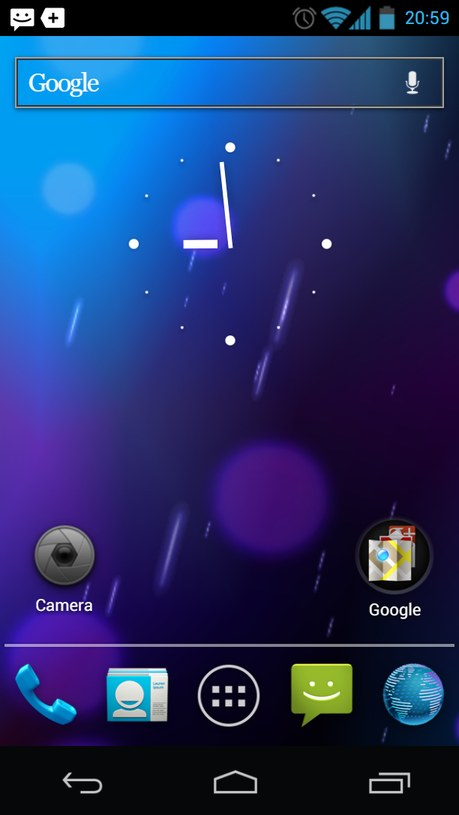
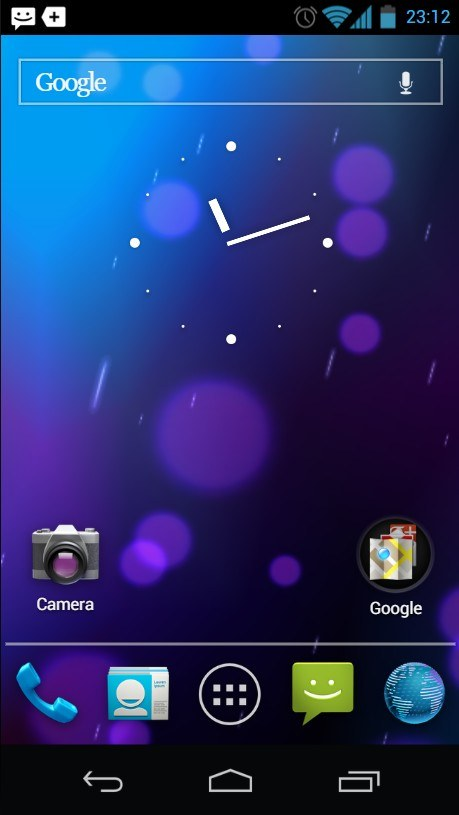
Audit point 14: landing shots retaken from the current home screens, the OG cover and the portfolio cover (now with all five phones) redrawn; make-og-cover.mjs --portfolio renders the latter

diff --git a/docs/portfolio-cover.html b/docs/portfolio-cover.html
@@ -24,22 +24,23 @@ h1 strong{display:block;font-weight:400;color:#75d3e3}
 <div class="text">
   <div class="brand"><i></i><div>ANDROID <span>TIME MACHINE</span></div></div>
   <h1>Old Androids,<strong>in the browser.</strong></h1>
-  <div class="range">ANDROID 2.3 – 4.4</div>
+  <div class="range">ANDROID 2.3 – 5.1</div>
 </div>
 <div class="phones" id="phones"></div>
 <script>
-const mm = 2.75;
+const mm = 2.5;
 // [version, frame, SVG width / height, real height in mm, screen insets %, body top and bottom in SVG units, picture]
 // The SVGs have a margin round the body (side keys, shadow), so the body, not the whole drawing, is scaled to the real height.
 const phones = [
   ['2.3.6', 'device-nexus-s.svg', 349.3 / 675.33, 123.9, [15.89, 15.99, 10.49, 10.49], [5.9, 669.3], 'landing-home.jpg'],
   ['4.0.4', 'device-galaxy-nexus.svg', 368.15 / 721.32, 135.5, [13.15, 11.44, 8.21, 8.67], [5.9, 715.5], 'landing-home.jpg'],
   ['4.3', 'device-nexus-4.svg', 374.77 / 722.2, 133.9, [11.86, 12.68, 6.37, 6.37], [6.8, 711.6], 'landing-home.jpg'],
-  ['4.4.4', 'device-nexus-5.svg', 370.57 / 728.24, 137.84, [8.83, 11.53, 5.94, 6.02], [6.2, 722.2], 'landing-home.jpg']
+  ['4.4.4', 'device-nexus-5.svg', 370.57 / 728.24, 137.84, [8.83, 11.53, 5.94, 6.02], [6.2, 722.2], 'landing-home.jpg'],
+  ['5.1.1', 'device-nexus-6.svg', 423 / 793.18, 159.26, [8.49, 7.96, 6.01, 5.87], [6.2, 784.7], 'landing-home.jpg']
 ];
 const root = document.getElementById('phones');
 phones.forEach(([v, frame, ratio, height, [t, b, l, r], [top, bottom], shot], i) => {
-  const svgH = {'device-nexus-s.svg': 675.33, 'device-galaxy-nexus.svg': 721.32, 'device-nexus-4.svg': 722.2, 'device-nexus-5.svg': 728.24}[frame];
+  const svgH = {'device-nexus-s.svg': 675.33, 'device-galaxy-nexus.svg': 721.32, 'device-nexus-4.svg': 722.2, 'device-nexus-5.svg': 728.24, 'device-nexus-6.svg': 793.18}[frame];
   const h = height * mm * svgH / (bottom - top), w = h * ratio, el = document.createElement('div');
   // The bodies, not the drawings, stand on one line.
   el.className = 'phone'; el.style.cssText = `width:${w}px;height:${h}px;margin-bottom:${-(svgH - bottom) / svgH * h}px;z-index:${10 + i}`;

diff --git a/versions/catalog.js b/versions/catalog.js
@@ -9,7 +9,7 @@ window.ANDROID_VERSIONS = [
     description: 'Touch keys under the glass, the SlidingTab lock screen, option panels behind the Menu key, green status icons and the zombie Gingerbread easter egg.',
     url: 'versions/2.3.6/',
     status: 'available',
-    art: {shot: 'landing-home.jpg?v=6', phone: 'nexuss'}
+    art: {shot: 'landing-home.jpg?v=7', phone: 'nexuss'}
   },
   {
     id: '4.0.4',
@@ -21,7 +21,7 @@ window.ANDROID_VERSIONS = [
     url: 'versions/4.0.4/',
     status: 'available',
     // Landing-card miniature: the version's default wallpaper and search bar style.
-    art: {shot: 'landing-home.jpg?v=3'}
+    art: {shot: 'landing-home.jpg?v=4'}
   },
   {
     id: '4.3',
@@ -32,7 +32,7 @@ window.ANDROID_VERSIONS = [
     description: 'Expandable notifications, Quick Settings, lock-screen widgets, Daydream and the BeanBag easter egg.',
     url: 'versions/4.3/',
     status: 'available',
-    art: {shot: 'landing-home.jpg?v=4', phone: 'nexus4'}
+    art: {shot: 'landing-home.jpg?v=5', phone: 'nexus4'}
   },
   {
     id: '4.4.4',
@@ -43,7 +43,7 @@ window.ANDROID_VERSIONS = [
     description: 'Google Now Launcher, Google Now, Hangouts, Chrome, translucent system bars and the Dessert Case easter egg.',
     url: 'versions/4.4.4/',
     status: 'available',
-    art: {shot: 'landing-home.jpg?v=5', phone: 'nexus5'}
+    art: {shot: 'landing-home.jpg?v=6', phone: 'nexus5'}
   },
   {
     id: '5.1.1',
@@ -54,6 +54,6 @@ window.ANDROID_VERSIONS = [
     description: 'Material Design, the new notification shade, heads-up notifications, Overview cards and the Lollipop Land easter egg.',
     url: 'versions/5.1.1/',
     status: 'available',
-    art: {shot: 'landing-home.jpg?v=3', phone: 'nexus6'}
+    art: {shot: 'landing-home.jpg?v=4', phone: 'nexus6'}
   }
 ];

diff --git a/index.html b/index.html
@@ -12,7 +12,7 @@
   <meta property="og:title" content="Android Time Machine – régi Androidok a böngészőben">
   <meta property="og:description" content="Android 2.3–5.1 a Nexus S-en, a Galaxy Nexuson, a Nexus 4-en, a Nexus 5-ön és a Nexus 6-on: kezdőképernyő, értesítések, beállítások és alkalmazások – telepítés nélkül.">
   <meta property="og:url" content="https://android.levente.net/">
-  <meta property="og:image" content="https://android.levente.net/assets/og-cover.jpg?v=12">
+  <meta property="og:image" content="https://android.levente.net/assets/og-cover.jpg?v=13">
   <meta property="og:image:type" content="image/jpeg">
   <meta property="og:image:width" content="1200">
   <meta property="og:image:height" content="630">
@@ -21,7 +21,7 @@
   <link rel="icon" type="image/svg+xml" href="favicon.svg">
   <link rel="stylesheet" href="styles.css?v=20">
   <script defer src="i18n.js?v=98"></script>
-  <script defer src="versions/catalog.js?v=29"></script>
+  <script defer src="versions/catalog.js?v=30"></script>
   <script defer src="app.js?v=11"></script>
 </head>
 <body>

diff --git a/versions/2.3.6/index.html b/versions/2.3.6/index.html
@@ -12,7 +12,7 @@
   <meta property="og:title" content="Android 2.3.6 Gingerbread – Nexus S szimulátor">
   <meta property="og:description" content="Érintőgombok az üveg alatt, csúszkás zárolóképernyő, a Menü gombbal nyíló opciópanelek, zöld állapotikonok és a zombi Gingerbread húsvéti tojás.">
   <meta property="og:url" content="https://android.levente.net/versions/2.3.6/">
-  <meta property="og:image" content="https://android.levente.net/assets/og-cover.jpg?v=12">
+  <meta property="og:image" content="https://android.levente.net/assets/og-cover.jpg?v=13">
   <meta property="og:image:type" content="image/jpeg">
   <meta property="og:image:width" content="1200">
   <meta property="og:image:height" content="630">

diff --git a/versions/4.0.4/index.html b/versions/4.0.4/index.html
@@ -12,7 +12,7 @@
   <meta property="og:title" content="Android 4.0.4 Ice Cream Sandwich – Galaxy Nexus szimulátor">
   <meta property="og:description" content="Holo dizájn, képernyős navigációs gombok, mappák, kamera a zárolóképernyőről és a Nyandroid húsvéti tojás.">
   <meta property="og:url" content="https://android.levente.net/versions/4.0.4/">
-  <meta property="og:image" content="https://android.levente.net/assets/og-cover.jpg?v=12">
+  <meta property="og:image" content="https://android.levente.net/assets/og-cover.jpg?v=13">
   <meta property="og:image:type" content="image/jpeg">
   <meta property="og:image:width" content="1200">
   <meta property="og:image:height" content="630">

diff --git a/versions/5.1.1/index.html b/versions/5.1.1/index.html
@@ -12,7 +12,7 @@
   <meta property="og:title" content="Android 5.1.1 Lollipop – Nexus 6 szimulátor">
   <meta property="og:description" content="Material Design, Google Now Launcher, felugró értesítések, Áttekintés-kártyák, Smart Lock és a Lollipop Land húsvéti tojás.">
   <meta property="og:url" content="https://android.levente.net/versions/5.1.1/">
-  <meta property="og:image" content="https://android.levente.net/assets/og-cover.jpg?v=12">
+  <meta property="og:image" content="https://android.levente.net/assets/og-cover.jpg?v=13">
   <meta property="og:image:type" content="image/jpeg">
   <meta property="og:image:width" content="1200">
   <meta property="og:image:height" content="630">

diff --git a/versions/4.3/index.html b/versions/4.3/index.html
@@ -12,7 +12,7 @@
   <meta property="og:title" content="Android 4.3 Jelly Bean – Nexus 4 szimulátor">
   <meta property="og:description" content="Kinyitható értesítések, gyorsbeállítások, widgetek a zárolóképernyőn, Daydream és a BeanBag húsvéti tojás.">
   <meta property="og:url" content="https://android.levente.net/versions/4.3/">
-  <meta property="og:image" content="https://android.levente.net/assets/og-cover.jpg?v=12">
+  <meta property="og:image" content="https://android.levente.net/assets/og-cover.jpg?v=13">
   <meta property="og:image:type" content="image/jpeg">
   <meta property="og:image:width" content="1200">
   <meta property="og:image:height" content="630">

diff --git a/versions/4.4.4/index.html b/versions/4.4.4/index.html
@@ -12,7 +12,7 @@
   <meta property="og:title" content="Android 4.4.4 KitKat – Nexus 5 szimulátor">
   <meta property="og:description" content="Google Now Launcher, Google Now, Hangouts, Chrome, áttetsző rendszersávok és a Dessert Case húsvéti tojás.">
   <meta property="og:url" content="https://android.levente.net/versions/4.4.4/">
-  <meta property="og:image" content="https://android.levente.net/assets/og-cover.jpg?v=12">
+  <meta property="og:image" content="https://android.levente.net/assets/og-cover.jpg?v=13">
   <meta property="og:image:type" content="image/jpeg">
   <meta property="og:image:width" content="1200">
   <meta property="og:image:height" content="630">

diff --git a/docs/audit-plan-2026-10.md b/docs/audit-plan-2026-10.md
@@ -339,8 +339,8 @@ eseménykezelése együtt van. A rendezés célja, hogy egy későbbi javítás 
 Az audit során a kezdőképernyők több helyen változtak (gyári kezdőképernyők, ikonok, widgetek), ezért a róluk
 készült képek elavulhattak.
 
-- [ ] Az öt verzió kezdőoldali bélyegképét (`versions/<v>/assets/landing-home.jpg`, a katalógus `art.shot`-ja) újra felvenni a mostani kezdőképernyőről, a korábbi felvételek beállításaival (méret, bezárt első indítási tippek, a 2.3.6-nál a két érintés a hullámokon); a hivatkozások `?v=` kulcsát emelni.
-- [ ] A közösségi borítót (`assets/og-cover.jpg`, `node docs/make-og-cover.mjs`) és a portfólió-változatot (`docs/portfolio-cover.html`) az új bélyegképekből újrarajzolni; az `og:image` hivatkozások `?v=` kulcsát emelni.
+- [x] Az öt verzió kezdőoldali bélyegképét (`versions/<v>/assets/landing-home.jpg`, a katalógus `art.shot`-ja) újra felvenni a mostani kezdőképernyőről, a korábbi felvételek beállításaival (méret, bezárt első indítási tippek, a 2.3.6-nál a két érintés a hullámokon); a hivatkozások `?v=` kulcsát emelni. Kész: fej nélküli Chrome-ban a `#screen` dobozáról, a korábbi méretekben (2.3.6 414 × 690, 4.0.4 459 × 815, 4.3 491 × 818, 4.4.4 489 × 870, 5.1.1 486 × 863), feloldva, az első indítási tippek bezárva; a katalógusban a `?v=` emelve – HASH
+- [x] A közösségi borítót (`assets/og-cover.jpg`, `node docs/make-og-cover.mjs`) és a portfólió-változatot (`docs/portfolio-cover.html`) az új bélyegképekből újrarajzolni; az `og:image` hivatkozások `?v=` kulcsát emelni. Kész: `assets/og-cover.jpg` újrarajzolva (`og:image` `?v=13`); a portfólióborító a `node docs/make-og-cover.mjs --portfolio <png>` kapcsolóval készül, és mind az öt telefont mutatja (eddig a 2.3–4.4 négyet, 5.1.1 nélkül); a levente.net portfólió repójába (`web/assets/img/projects/android-simulator.png`) kiírva, ott nincs commitolva – HASH
 
 ## Nem csináljuk meg
 
@@ -520,4 +520,5 @@ készült képek elavulhattak.
 | 2026-10-11 | 13. pont A 1: mentett adatok felmérése (docs/saved-state.md), nevesített átállítási lépések, régi mentés a böngészős folyamatban | b2f99ad |
 | 2026-10-11 | 12. pont: assetleltár (docs/asset-inventory.py, docs/assets/*.tsv) és próba-újragenerálás (--check, 0 eltérés); új tétel: más kiadás képéből származó grafikák | 517c427 |
 | 2026-10-11 | 12. pont, új tétel (részben): a betöltött, más kiadásból származó grafikák cseréje a saját képéire (4.0.4 Kamera/Galéria ikon, stat_notify_more, ic_lock_idle_alarm) | 4dd1ce6 |
+| 2026-10-11 | 14. pont: kezdőoldali bélyegképek, OG-borító és portfólióborító (öt telefonnal) újragenerálva | HASH |
 | 2026-10-10 | 9/D: 4.0.4 Google Beállítások gyári kép szerinti hiánya ellenőrizve helyben és élesben; elavult auditbejegyzés lezárva (a tartalékkód korábban törölve) | 254439c |

diff --git a/README.md b/README.md
@@ -42,7 +42,7 @@ What each version does, screen by screen:
 
 `assets/og-cover.jpg` (1200 × 630) is the `og:image` of every page. Its source is `docs/og-cover.html`, which lays out the phones from each version's frame and `landing-home.jpg`. To redraw it after a change, for example when a new version gets a landing shot, run the command below. It needs only Node and a local Chrome, or set `CHROME` to point at one. Then bump the `?v=` of `og-cover.jpg` in the `og:image` tags.
 
-The portfolio card on levente.net uses a 1600 × 960 variant with an English headline, from `docs/portfolio-cover.html` (render it at 1200 × 720 with a 4/3 device pixel ratio).
+The portfolio card on levente.net uses a 1600 × 960 variant with an English headline, from `docs/portfolio-cover.html`: `node docs/make-og-cover.mjs --portfolio <png>` renders it (1200 × 720 at a 4/3 device pixel ratio).
 
 ```bash
 node docs/make-og-cover.mjs
